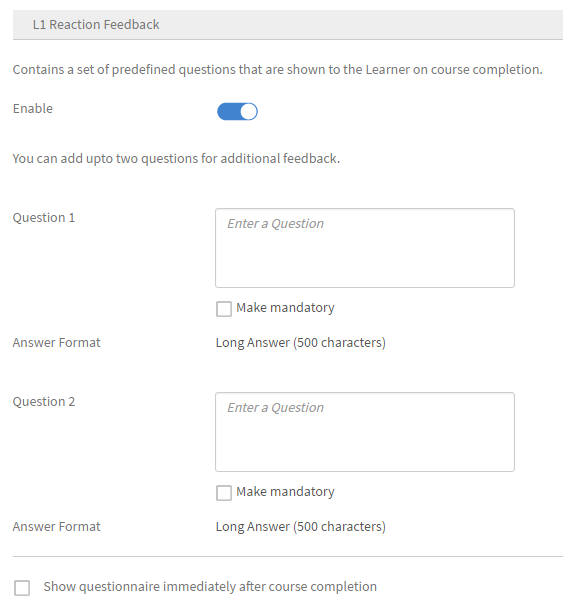
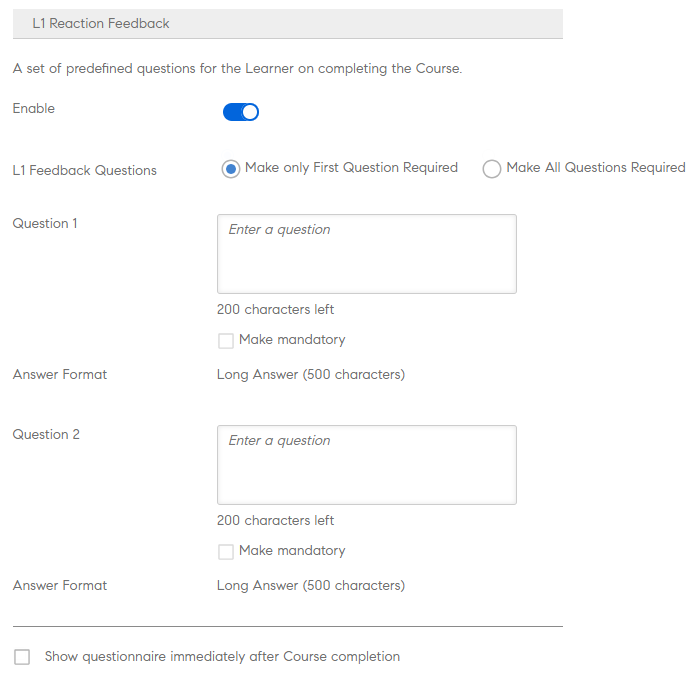
Support team tickets

diff --git a/help/migrated/administrators/feature-summary/courses.md b/help/migrated/administrators/feature-summary/courses.md
@@ -56,7 +56,7 @@ To create an instance,
 
    *Set completion deadline*
 
-## View properties of the instance {#viewpropertiesoftheinstance}
+### View properties of the instance {#viewpropertiesoftheinstance}
 
 ![](assets/properties-of-aninstance.png)
 
@@ -67,7 +67,11 @@ To create an instance,
 1. **Sessions:** The number of Virtual Classroom and Classroom modules in the course.
 1. **Feedback Enabled:** Displays whether L1, L2, and L3 feedbacks are enabled for this course.
 
-## Retire an instance {#retireaninstance}
+>[!NOTE]
+>
+>The admin cancels the sessions by going to Instances > Sessions and selecting Cancel Session.
+
+### Retire an instance {#retireaninstance}
 
 To retire an instance, perform the steps below;
 
@@ -79,7 +83,7 @@ To retire an instance, perform the steps below;
 
 1. To search for all retired instances, click the tab **[!UICONTROL Retired]** on the Instances page.
 
-## Restore an instance {#restoreaninstance}
+### Restore an instance {#restoreaninstance}
 
 To restore a retired instance to an activate state, perform the following steps:
 
@@ -91,7 +95,7 @@ To restore a retired instance to an activate state, perform the following steps:
 
 1. The instance now gets restored to an active mode.
 
-## Delete an instance
+### Delete an instance
 
 Admins can delete the instance using **Delete this instance** option immediately after the creation. You cannot delete instances if there is a session linked to it or if any learners are enrolled to it.
 
@@ -103,7 +107,7 @@ Admins can delete the instance using **Delete this instance** option immediately
 >
 >You cannot delete the default instance.
 
-## Send instance-level emails
+### Send instance-level emails
 
 To send instance-level emails to enrolled learners:
 
@@ -123,7 +127,7 @@ To send instance-level emails to enrolled learners:
 
    ![Announcement created successfully](assets/announcement-successful.png)
 
-### Enroll learners to courses
+## Enroll learners to courses
 
 In this training, you will learn how to enroll, unenroll, and re-enroll learners.
 
@@ -190,42 +194,57 @@ The Excel file contains worksheets for each instance. A worksheet consists of th
 >
 >If you've reporting automation set up that anticipates only one row per course, you must make the necessary adjustments to the reporting automation before enabling the Multi-Enrollment feature.
 
-## Set escalation level {#escalation}
+### Manage learners list for a course {#managelearnerslistforacourse}
 
-For sending the email notifications, an Admin must explicitly choose the escalation level to:
+1. Click course name on the course thumbnail.
+1. From the left pane, click **[!UICONTROL Learners]**.
 
-* Manager
-* Manager & Skip Level Manager
+![](assets/courses-learners.png)
 
-![](assets/escalation-notification.png)
+*Select learners in a  course*
 
-*Set escalation level*
+You can perform the following actions from the Learners page:
+
+* Select the Learner you want to remove, and click [!UICONTROL **Actions**] > [!UICONTROL **Remove**].
+* Select the Learner whose attendance you want to mark, and click [!UICONTROL **Actions**] > [!UICONTROL **Mark Complete**].
+
+To allow learners to reset a module and consume the module again, click [!UICONTROL **Reset**]. From the pop-up dialog box, click Yes to confirm the Reset. Modules that have been completed cannot be reset. Only failed or incomplete modules can be reset.
+
+You can also export the learners list in an excel sheet. To export the learners list, click [!UICONTROL **Actions**] > [!UICONTROL **Export**].
+
+>[!NOTE]
+>
+>If there are multiple instances for a course, the learners list in excel is provided in each tab separately. The learners list consists of learner name, status and selection criteria. Learners status can be **Not started**, or **In progress**, or **Completed**. 
+
+### Export learners in pending approval state
+
+An Administrator, Manager, or Custom Admin can export data of learners who are in pending approval enrollment state. You can export the data via **Course > Learner** tab, and click the Action drop-down list.
+
+The option will be present when no learner is enrolled/pending approval to the manager approved course and an empty report will be generated. You can also export when learners are in pending approval state, enrolled state, pending state, and unenrolled state.
+
+The report contains data of active, deleted, and suspended users if they are pending approval. Also the report contains data of internal and external users, who are in pending approval state.
+
+If a learner who was earlier in pending approval state, unenrolls, then his/her record will not be present in the report. Also if a learner who was earlier in pending approval state, is enrolled to the course by admin/manager/custom admin enrollment, then his/her record is present in the report.
 
 ## Waitlist
 
 The waitlist section allows learners to be waitlisted for classroom courses when seats are limited, based on their order of enrollment. Administrators can manage this by selecting waitlisted learners and allocating seats beyond the initial limit. Once a seat is allocated by the administrator, the learner is immediately enrolled in the course.
 
-## Discussion board
+## Export learners' attendance {#attendance}
 
-The Discussion Board feature allows learners to view the course discussions. As an admin, you have the ability to delete any comments as needed. Admins can enable this option under course settings. 
+For any classroom and VC course, you can download the list of learners who have attended this course, for any instance.
 
-## Course moderation {#coursemoderation}
+On the course details page, click **[!UICONTROL Attendance and Scoring]** on the right pane.
 
-Whenever an author adds, updates, or deletes modules and republishes a course, all the administrators receive notification about the same. As an administrator, you can then view the changes, compare the old and new content by clicking on the link, and either approve or reject the changes accordingly.
+On the top right-corner of the page, click the **[!UICONTROL Actions]** drop-down list. Then click the option **[!UICONTROL Export Learner List (PDF)]**.
 
-To enable Course Moderation, click **[!UICONTROL Settings]** > **[!UICONTROL General]**. Select the **[!UICONTROL Course Moderation]** check-box to enable this feature.
+![](assets/export-list-of-learners.png)
 
-![](assets/2.png)
+*Export list of learners as PDF*
 
-*Enable course moderation*
+On the PDF, you can view the same set of learners as an instructor does.
 
-Click on the notification to view the changes the author has made to the course. Then, either approve or reject the changes made by the author. If you choose to approve, the course will be republished. If you reject the updates, the previous version of the course will continue to exist. In either case, a notification is sent to the author.
-
-![](assets/1.png)
-
-*Author requests for course updates*
-
-If there are multiple authors who are updating the same course, the latest or the last performed change will reflect in the administrator's notification. You can then approve or reject the latest changes.
+When you download the PDF, you can see the time zone (in UTC) that was used when creating the course.
 
 ## Add L1 and L3 feedback {#addl1andl3feedback}
 
@@ -237,7 +256,7 @@ You can add L1 and L3 feedback options while you create the courses:
 1. Click the circle on toggle button adjacent to L1 or L3 feedback to enable it.
 1. Add the L3 feedback question in the text area below L3 Question.
 
-## Mandatory L1 feedback {#mandatory-l1-feedback}
+### Mandatory L1 feedback {#mandatory-l1-feedback}
 
 You can make all questions or the first question mandatory in an L1 feedback. 
 
@@ -263,7 +282,7 @@ In Instance Defaults page, if you enable **[!UICONTROL Make All Questions Mandat
 
 *View the Instance Defaults page*
 
-## L1 feedback at course level {#l1-feedback-course-level}
+### L1 feedback at course level {#l1-feedback-course-level}
 
 In previous versions of Learning Manager, an Administrator could enable L1 feedback for the Learning Program.
 
@@ -287,7 +306,7 @@ In this release of Learning Manager, the Administrator can send L1 feedback for 
 
    If L1 feedback is enabled for all courses, but is disabled in the learning Program instance, then the L1 feedback will not be triggered for the courses.
 
-## Language specific quiz reports
+### Language specific quiz reports
 
 Quiz reports help in evaluating the performance of a learner post completion of a Learning program or course. 
 
@@ -297,7 +316,7 @@ Quiz reports, display data in different languages provided the course is being o
 
 This is now rectified as the Admin is now able to view all the reports in the respective language which the learner attempted all at once, regardless of the content locale chosen. Quiz attempted in different languages will be added as additional columns in the quiz report.
 
-## Enable L1 feedback at account level {#l1-feedback-account-level}
+### Enable L1 feedback at account level {#l1-feedback-account-level}
 
 *Enable L1 feedback at account level*
 
@@ -323,7 +342,7 @@ You can also disable the L1 feedback by toggling the **[!UICONTROL Enable]** opt
 
 *Enable or disable the L1 feedback*
 
-## Add descriptive questions for L1 and L3 feeedback {#descriptive}
+### Add descriptive questions for L1 and L3 feeedback {#descriptive}
 
 As part of Learning Manager November release, an option to add descriptive questions has been provided. Administrators have an option to add these questions to learners. This provision is in addition to the default set of questions provided by Learning Manager. You can also make them mandatory if required by choosing the option below the question. 
 
@@ -357,7 +376,7 @@ A sample output of the L3 questionnaire is provided below for your reference. Le
 
 *View L3 feedback output*
 
-## Set up L1 and L3 feedback questionnaire {#setupl1andl3feedbackquestionnaire}
+### Set up L1 and L3 feedback questionnaire {#setupl1andl3feedbackquestionnaire}
 
 You can set up L1 and L3 feedback questionnaire and also set reminders at the account level. 
 
@@ -373,6 +392,36 @@ You can set up L1 and L3 feedback questionnaire and also set reminders at the ac
 1. Click **[!UICONTROL Save]** at the upper-right corner of the page.
 
 In L1 feedback, you can see two sets of questionnaire along with a default question. First set of questionnaire refers to self paced courses which can also be used for activity based courses. Second set of questionnaire can be used for Class room and virtual class room type of courses.
+
+## View L1 and L3 feedback {#viewl1andl3feedback}
+
+You can view the L1 feedback provided by learners for a course and the L3 feedback provided by Managers for learners.
+
+1. Click any course tile in the Courses list.
+1. Click L1 Feedback or L3 Feedback on the left pane to view the feedback received.
+1. Select the instance from the drop-down list to view the feedback for that particular instance.
+
+## Discussion board
+
+The Discussion Board feature allows learners to view the course discussions. As an admin, you have the ability to delete any comments as needed. Admins can enable this option under course settings. 
+
+## Course moderation {#coursemoderation}
+
+Whenever an author adds, updates, or deletes modules and republishes a course, all the administrators receive notification about the same. As an administrator, you can then view the changes, compare the old and new content by clicking on the link, and either approve or reject the changes accordingly.
+
+To enable Course Moderation, click **[!UICONTROL Settings]** > **[!UICONTROL General]**. Select the **[!UICONTROL Course Moderation]** check-box to enable this feature.
+
+![](assets/2.png)
+
+*Enable course moderation*
+
+Click on the notification to view the changes the author has made to the course. Then, either approve or reject the changes made by the author. If you choose to approve, the course will be republished. If you reject the updates, the previous version of the course will continue to exist. In either case, a notification is sent to the author.
+
+![](assets/1.png)
+
+*Author requests for course updates*
+
+If there are multiple authors who are updating the same course, the latest or the last performed change will reflect in the administrator's notification. You can then approve or reject the latest changes.
 
 ## Export checklist data {#export-checklist-data}
 
@@ -423,61 +472,26 @@ You can view the quiz scores of any particular course based on user name or base
 
 Choose the instance type from the drop-down list to view the scores based on each instance of the course.
 
-## Manage learners list for a course {#managelearnerslistforacourse}
+## Default instance
 
-1. Click course name on the course thumbnail.
-1. From the left pane, click **[!UICONTROL Learners]**.
+Admins can set default Badges, gamification settings and reminders in **[!UICONTROL Default Instance]** page. To modify the default instance settings, select **[!UICONTROL Default Instance]** > **[!UICONTROL Edit]**. 
 
-![](assets/courses-learners.png)
+* **[!UICONTROL Badge]**: Select the default badges from the dropdown menu.
+* **[!UICONTROL Gamification]**: Configure gamification settings, including points for completion, early completion, and timely completion. Admins have the option to select account level settings or customize the gamification points for this instance.
+* **[!UICONTROL L1 Reaction Feedback]**: Enable predefined questions for learner feedback upon course completion, with options to make questions mandatory.
+***[!UICONTROL  L3 Behaviour Change Feedback]**: Enable feedback questions for the learner's manager upon course completion.
+***[!UICONTROL  Reminder Settings]**: Set and manage reminders for deadlines, with options for escalation.
 
-*Select learners in a  course*
+### Set escalation level {#escalation}
 
-You can perform the following actions from the Learners page:
+For sending the email notifications, an Admin must explicitly choose the escalation level to:
 
-* Select the Learner you want to remove, and click [!UICONTROL **Actions**] > [!UICONTROL **Remove**].
-* Select the Learner whose attendance you want to mark, and click [!UICONTROL **Actions**] > [!UICONTROL **Mark Complete**].
+* Manager
+* Manager & Skip Level Manager
 
-To allow learners to reset a module and consume the module again, click [!UICONTROL **Reset**]. From the pop-up dialog box, click Yes to confirm the Reset. Modules that have been completed cannot be reset. Only failed or incomplete modules can be reset.
+![](assets/escalation-notification.png)
 
-You can also export the learners list in an excel sheet. To export the learners list, click [!UICONTROL **Actions**] > [!UICONTROL **Export**].
-
->[!NOTE]
->
->If there are multiple instances for a course, the learners list in excel is provided in each tab separately. The learners list consists of learner name, status and selection criteria. Learners status can be **Not started**, or **In progress**, or **Completed**. 
-
-## Export learners' attendance {#attendance}
-
-For any classroom and VC course, you can download the list of learners who have attended this course, for any instance.
-
-On the course details page, click **[!UICONTROL Attendance and Scoring]** on the right pane.
-
-On the top right-corner of the page, click the **[!UICONTROL Actions]** drop-down list. Then click the option **[!UICONTROL Export Learner List (PDF)]**.
-
-![](assets/export-list-of-learners.png)
-
-*Export list of learners as PDF*
-
-On the PDF, you can view the same set of learners as an instructor does.
-
-When you download the PDF, you can see the time zone (in UTC) that was used when creating the course.
-
-## Export learners in pending approval state
-
-An Administrator, Manager, or Custom Admin can export data of learners who are in pending approval enrollment state. You can export the data via **Course > Learner** tab, and click the Action drop-down list.
-
-The option will be present when no learner is enrolled/pending approval to the manager approved course and an empty report will be generated. You can also export when learners are in pending approval state, enrolled state, pending state, and unenrolled state.
-
-The report contains data of active, deleted, and suspended users if they are pending approval. Also the report contains data of internal and external users, who are in pending approval state.
-
-If a learner who was earlier in pending approval state, unenrolls, then his/her record will not be present in the report. Also if a learner who was earlier in pending approval state, is enrolled to the course by admin/manager/custom admin enrollment, then his/her record is present in the report.
-
-## View L1 and L3 feedback {#viewl1andl3feedback}
-
-You can view the L1 feedback provided by learners for a course and the L3 feedback provided by Managers for learners.
-
-1. Click any course tile in the Courses list.
-1. Click L1 Feedback or L3 Feedback on the left pane to view the feedback received.
-1. Select the instance from the drop-down list to view the feedback for that particular instance.
+*Set escalation level*
 
 ## Preview courses {#previewcourses}
 

diff --git a/help/migrated/integration-admin/feature-summary/configure-role-csv-files.md b/help/migrated/integration-admin/feature-summary/configure-role-csv-files.md
@@ -13,14 +13,16 @@ You can configure roles via the Learning Manager FTP and Box connectors.
 
 After you sign in to your Box storage account, the Integration admin can add the following csvs in the account:
 
+* user.csv
 * role.csv
 * user_role.csv
 
 To get started, download the csvs and change the values according to your requirements.
 
-**role.csv**
 * Sample file: [role.csv](assets/role.csv) 
 * Sample file: [user_role.csv](assets/user_role.csv)
+
+**role.csv**
 
 <table>
  <tbody>
@@ -141,10 +143,10 @@ If any Catalog Names or User Group names are provided in the CSV, they are overr
 
 In your Box account, choose **Import > user > internal**, and upload the files- role.csv and user_role.csv.
 
-* The Custom Role CSVs must be copied in the folder "import->user->internal->user_role"
-* The Users CSV must be copied in the folder "import->user->internal"
+* The role.csv and user_role.csv must be copied in the folder **Import** > **user** > **internal** > **user_role**.
+* The user.csv must be copied in the folder **Import** > **user** > **internal**.
 
-Both the CSVs must be uploaded via Box or FTP only and cannot be uploaded through UI. 
+Both the CSVs must be uploaded via Box only and cannot be uploaded through UI. 
 
 >[!NOTE]
 >
